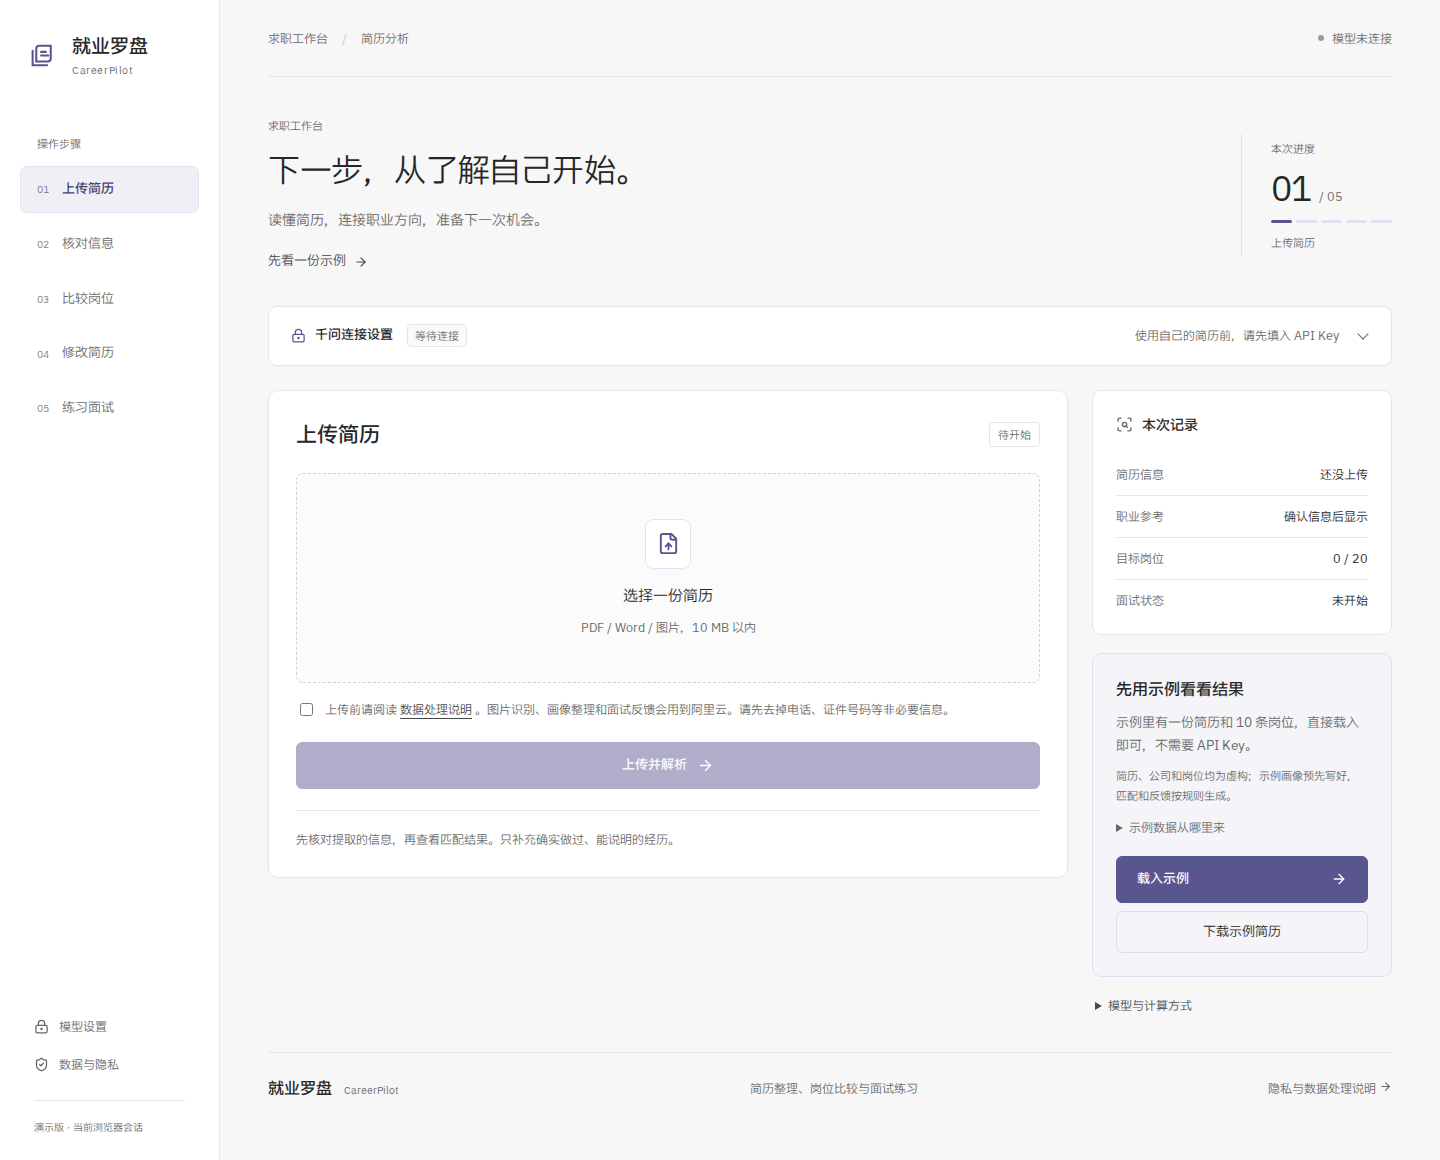
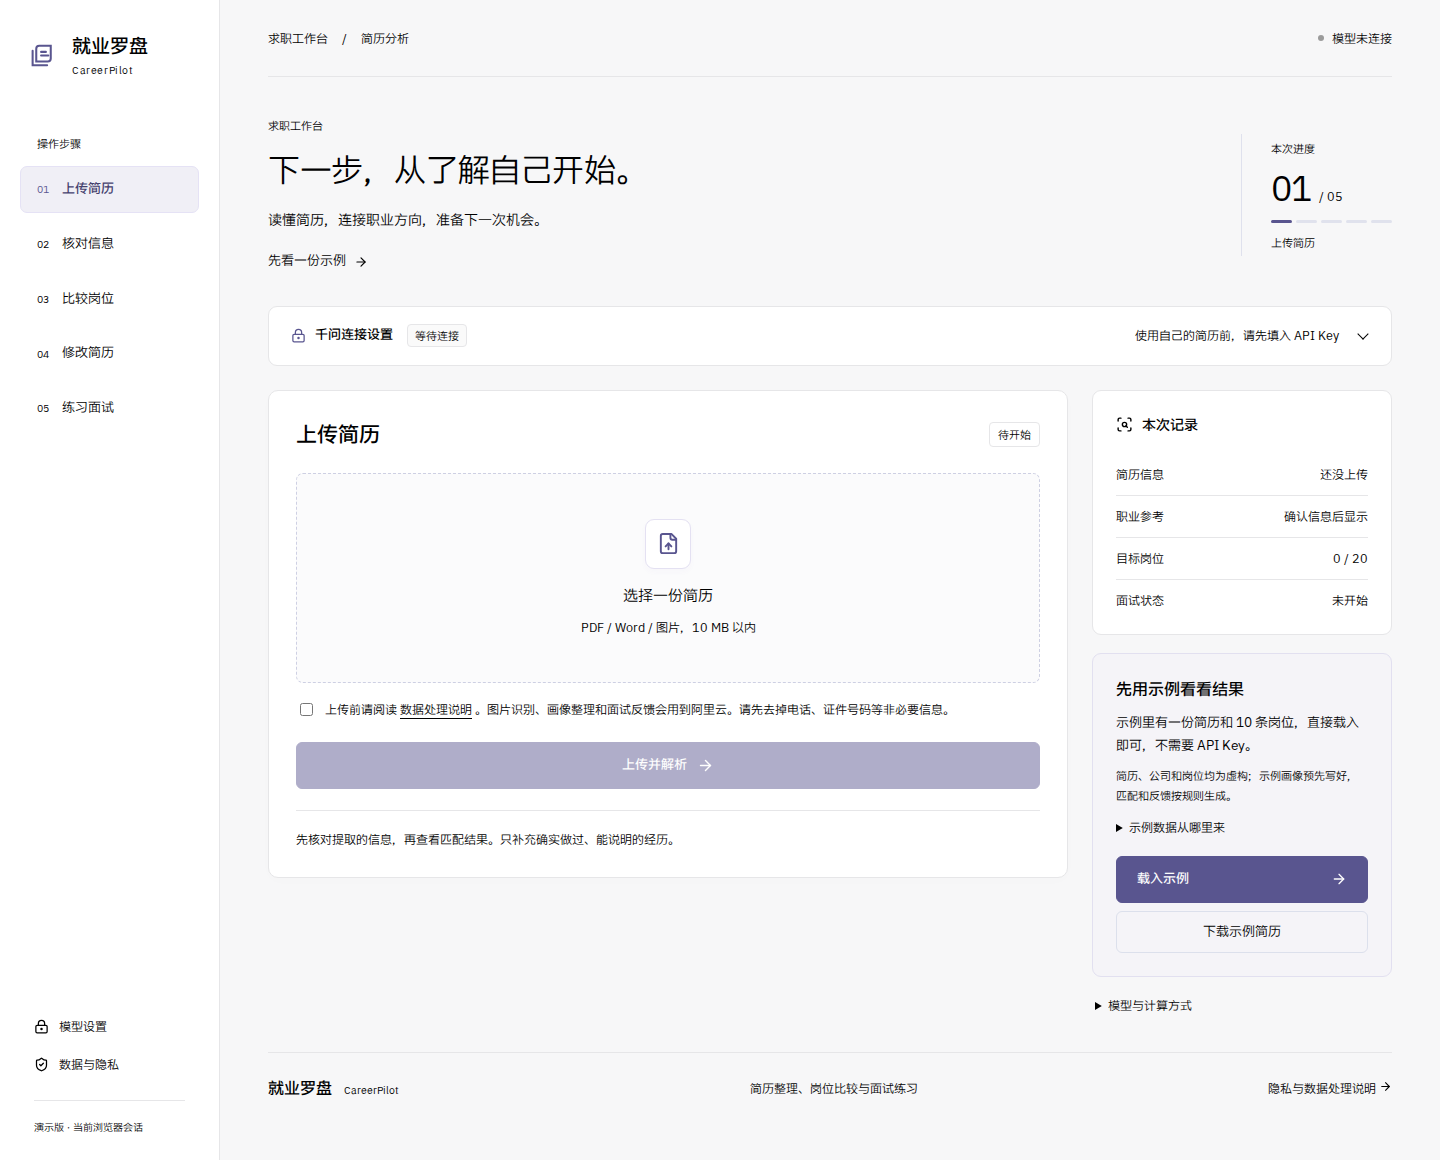
Use black for ordinary text and helper copy throughout the website

diff --git a/frontend/app/globals.css b/frontend/app/globals.css
@@ -1,7 +1,7 @@
 :root {
-  --ink: #262626;
-  --text: #484848;
-  --muted: #686868;
+  --ink: #000000;
+  --text: var(--ink);
+  --muted: var(--ink);
   --line: #e6e6e8;
   --paper: #ffffff;
   --surface: #fafafa;
@@ -42,7 +42,7 @@ button svg, .notice svg, .config-privacy svg { flex-shrink: 0; }
 .rail-link { display: flex; align-items: center; gap: 13px; min-height: 46px; padding: 11px 16px; border: 1px solid transparent; border-radius: 7px; color: var(--muted); text-decoration: none; font-size: 13px; }
 .rail-link:hover { color: var(--ink); background: var(--surface); }
 .rail-link.active { color: var(--accent-dark); background: var(--accent-soft); border-color: #e5e2f5; font-weight: 500; }
-.rail-link-index { font: 400 10px var(--font-data); opacity: .8; }
+.rail-link-index { font: 400 10px var(--font-data); }
 .rail-link.active .rail-link-index { color: var(--accent); }
 .rail-link.complete { color: var(--ink); }
 .rail-complete { margin-left: auto; color: var(--accent); }
@@ -51,7 +51,7 @@ button svg, .notice svg, .config-privacy svg { flex-shrink: 0; }
 .rail-footer a:hover, .rail-settings:hover { color: var(--accent); }
 .rail-edition { margin-top: 8px; padding-top: 18px; border-top: 1px solid var(--line); color: var(--muted); font-size: 10px; }
 .workspace-head { display: flex; align-items: center; justify-content: space-between; gap: 18px; min-height: 77px; border-bottom: 1px solid var(--line); color: var(--muted); font-size: 12px; }
-.breadcrumb-separator { margin: 0 11px; color: #c2c5d3; }
+.breadcrumb-separator { margin: 0 11px; color: var(--ink); }
 .text-link:hover { color: var(--accent-dark); text-decoration: underline; }
 .topbar-meta { display: flex; align-items: center; gap: 8px; color: var(--muted); font-size: 12px; }
 .status-dot, .mini-dot { display: inline-block; flex-shrink: 0; width: 6px; height: 6px; border-radius: 50%; background: #9b9b9b; }
@@ -90,7 +90,7 @@ h3, h4 { margin: 0; font-weight: 500; }
 .field-label { display: block; margin-top: 16px; color: var(--ink); font-size: 14px; }
 .text-input, .job-input { width: 100%; border: 1px solid #dce0ec; border-radius: 6px; color: var(--ink); background: var(--paper); font-size: 15px; }
 .text-input { height: 44px; padding: 0 12px; margin-top: 7px; }
-.text-input::placeholder, .job-input::placeholder { color: var(--muted); }
+.text-input::placeholder, .job-input::placeholder { color: var(--muted); opacity: 1; }
 .text-input:focus, .job-input:focus { outline: 2px solid #e6e8f8; border-color: var(--accent); }
 .text-input:disabled { color: var(--muted); background: #eeeeee; }
 .key-input { font-family: var(--font-code); font-size: 14px; }
@@ -162,7 +162,7 @@ summary { cursor: pointer; }
 .skill-list { display: flex; flex-wrap: wrap; gap: 8px; margin-top: 14px; }
 .skill-list span { padding: 3px 9px; border: 1px solid #e0e1ef; border-radius: 4px; color: var(--text); background: var(--surface); font-size: 12px; }
 .skill-list small { color: var(--muted); font-size: 12px; }
-.profile-warning { margin: 13px 0 0; color: #696969; font-size: 12px; }
+.profile-warning { margin: 13px 0 0; color: var(--ink); font-size: 12px; }
 .analysis-section, .next-stage { margin-bottom: 26px; padding: 29px; border: 1px solid var(--line); border-radius: 10px; background: var(--paper); }
 .loading-copy { padding: 20px 0; color: var(--muted); font-size: 14px; }
 .analysis-retry .secondary-button { margin-top: 12px; }
@@ -192,7 +192,7 @@ summary { cursor: pointer; }
 .career-rank { padding-top: 4px; color: var(--muted); font: 400 12px/1.5 var(--font-data); }
 .career-title h4 { font-size: 17px; font-weight: 500; }
 .career-title > span { display: block; margin-top: 6px; color: var(--muted); font-size: 12px; overflow-wrap: anywhere; }
-.career-reason { margin: 12px 0; color: #555555; font-size: 14px; line-height: 1.85; overflow-wrap: anywhere; }
+.career-reason { margin: 12px 0; color: var(--ink); font-size: 14px; line-height: 1.85; overflow-wrap: anywhere; }
 .career-skills { display: flex; flex-wrap: wrap; gap: 5px 20px; }
 .career-skills p { margin: 0; color: var(--muted); font-size: 12px; overflow-wrap: anywhere; }
 .career-skills b { margin-right: 9px; color: var(--ink); font-weight: 500; }
@@ -227,7 +227,7 @@ summary { cursor: pointer; }
 .match-main strong { font-size: 16px; font-weight: 500; }
 .match-main > span { color: var(--muted); font-size: 13px; }
 .match-main small { color: var(--muted); font-size: 12px; overflow-wrap: anywhere; }
-.match-main .constraint-warning { color: #5d5d5d; }
+.match-main .constraint-warning { color: var(--ink); }
 .match-evidence { color: var(--muted); font-size: 12px; }
 .match-evidence summary { color: var(--text); }
 .match-actions { display: flex; gap: 9px; margin-top: 5px; }
@@ -235,12 +235,12 @@ summary { cursor: pointer; }
 .match-actions button:hover { background: var(--accent-soft); }
 .match-score { display: flex; flex-direction: column; align-items: flex-end; min-width: 50px; color: var(--ink); font: 400 29px/1.2 var(--font-heading); }
 .match-score small { margin-top: 5px; font: 400 11px/1.5 var(--font-body); }
-.match-score.risk { color: #6a6a6a; }
+.match-score.risk { color: var(--ink); }
 .report-panel, .interview-panel { margin-top: 26px; padding: 20px 22px 24px; border: 1px solid var(--line); border-top: 2px solid #b2acd9; border-radius: 7px; background: var(--surface); }
 .report-columns { display: grid; grid-template-columns: repeat(3, minmax(0, 1fr)); gap: 22px; }
 .report-columns > div { padding: 14px 0; }
 .report-columns b, .report-notes b, .report-checklist b { font-size: 14px; font-weight: 500; }
-.report-columns p, .interview-summary p { color: #5a5a5a; font-size: 14px; line-height: 1.85; overflow-wrap: anywhere; }
+.report-columns p, .interview-summary p { color: var(--ink); font-size: 14px; line-height: 1.85; overflow-wrap: anywhere; }
 .report-notes, .report-checklist { margin: 20px 0; color: var(--muted); font-size: 13px; }
 .report-checklist ul { display: grid; grid-template-columns: 1fr 1fr; gap: 8px 22px; margin: 12px 0 0; padding: 0; list-style: none; }
 .report-checklist li { display: flex; gap: 8px; align-items: flex-start; }
@@ -256,7 +256,7 @@ summary { cursor: pointer; }
 .interview-turn > div span { color: var(--muted); font: 400 12px var(--font-data); }
 .interview-turn p { margin: 12px 0 0; line-height: 1.9; overflow-wrap: anywhere; }
 .turn-answer { white-space: pre-wrap; }
-.turn-feedback { color: #5f5f5f; }
+.turn-feedback { color: var(--ink); }
 footer { display: flex; align-items: center; justify-content: space-between; gap: 24px; padding: 25px 0 0; border-top: 1px solid var(--line); color: var(--muted); font-size: 12px; }
 .footer-brand { font-size: 16px; }
 .footer-brand small { display: inline; margin-left: 8px; font-size: 10px; letter-spacing: 0; }
@@ -266,7 +266,7 @@ footer > a:last-child:hover { text-decoration: underline; }
 .privacy-back { display: inline-flex; gap: 8px; align-items: center; color: var(--accent); font-size: 13px; text-decoration: none; }
 .privacy-page h1 { margin: 26px 0 18px; font: 500 30px/1.5 var(--font-heading); }
 .privacy-page h2 { margin: 30px 0 13px; font-size: 22px; }
-.privacy-page p, .privacy-page li { color: #5c5c5c; font-size: 15px; line-height: 1.95; }
+.privacy-page p, .privacy-page li { color: var(--ink); font-size: 15px; line-height: 1.95; }
 .privacy-page ul, .privacy-page ol { padding-left: 24px; }
 .privacy-page li { margin: 12px 0; }
 .privacy-warning { padding: 15px 18px; border-left: 2px solid #bbbbbb; background: var(--surface); }

diff --git a/docs/DEVELOPMENT.md b/docs/DEVELOPMENT.md
@@ -2,7 +2,7 @@
 
 技术栈：Next.js 16 / React 19、FastAPI / Python 3.12+、SQLite；Node.js 24、pnpm 11。单实例、单 API 进程。
 
-页面样式集中在 `frontend/app/globals.css`：画布 `#F7F7F8`、正文 `#262626`、辅助文字 `#686868`，蓝紫 `#59558F` 用于按钮、选中状态和图表。标题 400、区块标题 500，避免粗黑大字与蓝灰正文；数字随正文使用比例字形，只有 API Key 等代码字段使用等宽字体。
+页面样式集中在 `frontend/app/globals.css`：画布 `#F7F7F8`、正文与辅助文字统一为黑色 `#000000`，蓝紫 `#59558F` 用于按钮、选中状态和图表。标题 400、区块标题 500，通过字号、字重和留白区分信息层级；数字随正文使用比例字形，只有 API Key 等代码字段使用等宽字体。
 
 网页字体通过 `next/font/local` 随站点提供，字形源自 IBM Plex Sans SC，保留 400 / 500 两种字重，界面小字库预加载，GB2312 补充字库按需加载；缺字回退到系统中文字体。子集重命名为 CareerPilot Sans / UI，来源、版本与 OFL 许可见 `frontend/app/fonts/`，无需访问外部字体服务。桌面使用侧栏与双栏工作区，900px 以下导航移至顶部，620px 以下内容单列；步骤读取真实会话状态，长说明默认收起。
 
